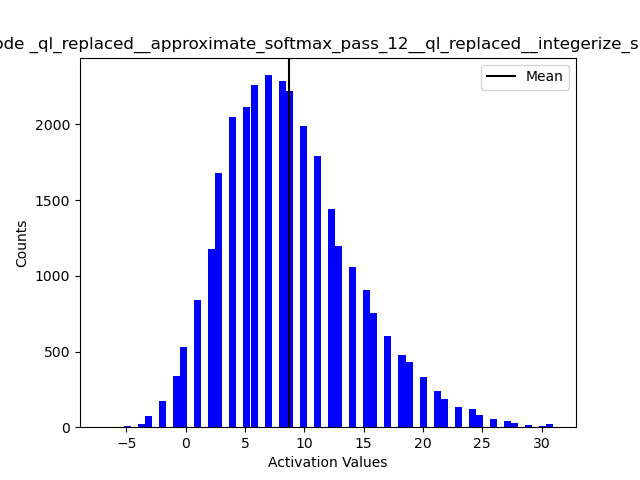
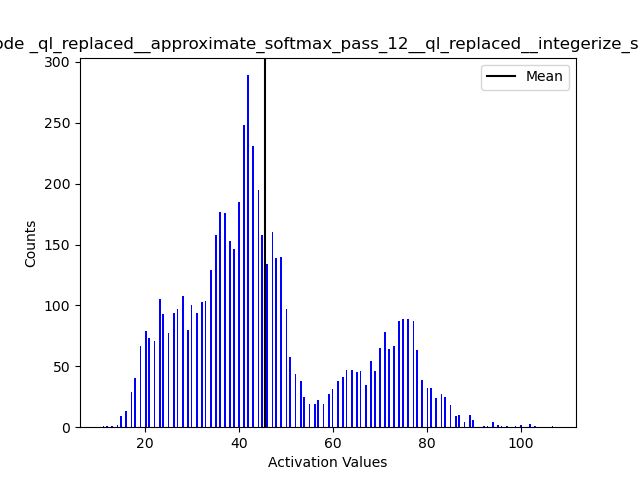
Wip: Only one Requant

diff --git a/passes.py b/passes.py
@@ -121,9 +121,9 @@ def replSoftmax(gm: fx.GraphModule, match: Match, mode: str, **kwargs):
     if mode == "I-BERT":
         replacement_class = nn.Sequential(PACTAsymmetricAct(**kwargs), PACTSoftmax(n_levels))
     elif mode == 'ITA':
-        replacement_class = nn.Sequential(PACTAsymmetricAct(**kwargs), PACTITAMax(n_levels))
+        replacement_class = nn.Sequential(PACTITAMax(n_levels))
     elif mode == 'ITA-Partial':
-        replacement_class = nn.Sequential(PACTAsymmetricAct(**kwargs), PACTITAPartialMax(n_levels=n_levels))
+        replacement_class = nn.Sequential(PACTITAPartialMax(n_levels=n_levels))
 
     return replacement_class
 
@@ -158,6 +158,8 @@ class CustomAnnotateEpsPass(FxPass):
 
                 if (isinstance(m, PACTSoftmax) or isinstance(m, PACTITAMax) or isinstance(m, PACTITAPartialMax)):
                     eps_in = [[i.meta['quant'].eps_out for i in node.args if isinstance(i, fx.Node)], {}]
+                    if isinstance(m, PACTITAMax) or isinstance(m, PACTITAPartialMax):
+                        eps_in = [[torch.Tensor((1.0,))], {}]
                     eps_out = torch.Tensor((1. / (m.n_levels - 1.),))
                     if self.verbose:
                         print(f" - {node.name:<40} ({m.__class__.__name__:<20}) {eps_in} -> {eps_out}")

diff --git a/evaluate_model.py b/evaluate_model.py
@@ -46,7 +46,7 @@ Print_Fake_Quantized_Model = False
 Print_True_Quantized_Model = False
 Verbose_Evaluations = False #Takes more time, for sanity checks on the model
 # Hyperparameters
-Quantization_Mode = "ITA"  # I-BERT, ITA, ITA-Partial
+Quantization_Mode = "ITA-Partial"  # I-BERT, ITA, ITA-Partial
 N_LEVELS_ACTS = 2**8
 UPPER_PERCENTILE = 99.9
 LOWER_PERCENTILE = 0.1
@@ -528,7 +528,7 @@ if __name__ == "__main__":
         "true_quant": eval_model(config, model_tq, n_test = 200)
     }
 
-    file_path = "quantization_results_IBert5_fast.txt"
+    file_path = "quantization_results.txt"
 
     with open(file_path, "a") as file:
         file.write(
